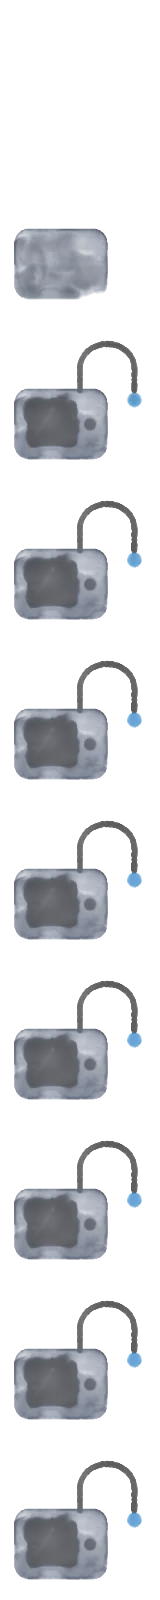
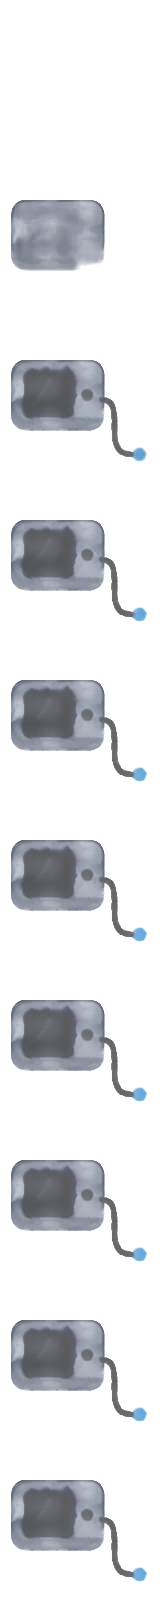
fix(watercolour): trail the pump's tube and calm the glucose gauge
The pump's tube looped over the top and read as a padlock shackle; it now
leaves the side and trails down to the infusion site. The gauge moves to
slate with a shadow needle just left of upright, since ember with a red
needle swung right read as a high reading on a neutral units step.

Claude-Session: https://claude.ai/code/session_01RKL3tmvxAfNJWyhXurBE4m

diff --git a/src/Web/packages/watercolour/src/api/assets.ts b/src/Web/packages/watercolour/src/api/assets.ts
@@ -66,7 +66,7 @@ export const DEFAULT_PALETTE: Record<string, PaletteId> = {
   'phone': 'slate',
   'cgm-sensor': 'water',
   'insulin-pump': 'slate',
-  'glucose-gauge': 'ember',
+  'glucose-gauge': 'slate',
   'ringing-bell': 'ember',
   'lucide-database': 'slate',
   'lucide-server': 'slate',

diff --git a/crates/nocturne-watercolour-infra/src/authoring/icons_devices.rs b/crates/nocturne-watercolour-infra/src/authoring/icons_devices.rs
@@ -95,8 +95,8 @@ pub(super) fn cgm_sensor(style: &Style, palette: &Palette) -> Scene {
     )
 }
 
-/// A body wider than it is tall with a screen in it, and a tube that loops
-/// up out of its top to the infusion site. The tube is what separates it
+/// A body wider than it is tall with a screen in it, and a tube that trails
+/// out of its side to the infusion site. The tube is what separates it
 /// from a phone or a pager, so it is drawn at every size.
 pub(super) fn insulin_pump(style: &Style, palette: &Palette) -> Scene {
     let frame = Frame::new(SQUARE);
@@ -104,13 +104,13 @@ pub(super) fn insulin_pump(style: &Style, palette: &Palette) -> Scene {
     let shadow = role(palette, PigmentRole::Shadow);
     let accent = role(palette, PigmentRole::Accent);
     let mut p = Painting::new(style.ticks(380));
-    let body = Shape::rounded_rect(0.1, 0.44, 0.66, 0.86, 0.08);
+    let body = Shape::rounded_rect(0.08, 0.26, 0.64, 0.68, 0.08);
     stencil_body(&mut p, &frame, style, &body, 0.012, base, 0.4, 0.0);
     p.glaze(0.36, 0.09).clear_mask(0.36);
-    let (top, bottom) = (0.53f32, 0.77);
+    let (top, bottom) = (0.35f32, 0.59);
     p.mask(
         0.38,
-        Shape::rounded_rect(0.18, 0.52, 0.47, 0.78, 0.03).polygon(&frame),
+        Shape::rounded_rect(0.16, 0.34, 0.45, 0.6, 0.03).polygon(&frame),
         0.006,
     );
     p.at(
@@ -127,14 +127,14 @@ pub(super) fn insulin_pump(style: &Style, palette: &Palette) -> Scene {
     if style.fine() {
         p.at(
             0.56,
-            lift(frame.line(0.23, 0.72, 0.33, 0.56), 0.025, 0.5, 0.6),
+            lift(frame.line(0.21, 0.54, 0.31, 0.38), 0.025, 0.5, 0.6),
         );
     }
     p.glaze(0.62, 0.08).clear_mask(0.62);
     p.at(
         0.62,
         brush(
-            vec![frame.pt(0.565, 0.65)],
+            vec![frame.pt(0.545, 0.47)],
             0.04,
             shadow,
             style.conc(0.85),
@@ -142,14 +142,19 @@ pub(super) fn insulin_pump(style: &Style, palette: &Palette) -> Scene {
             0.45,
         ),
     );
-    let (lx, rx, bend, rise) = (0.5f32, 0.84f32, 0.3f32, 0.15f32);
-    let (mid, half) = ((lx + rx) * 0.5, (rx - lx) * 0.5);
-    let tube: Vec<_> = std::iter::once((lx, 0.44))
-        .chain((0..=16).map(|i| {
-            let a = PI + i as f32 / 16.0 * PI;
-            (mid + half * a.cos(), bend + rise * a.sin())
-        }))
-        .chain(std::iter::once((rx, 0.44)))
+    // Out of the side and away in one bend, so it trails rather than
+    // closing over the top into a handle.
+    let [a, b, c, d] = [(0.64f32, 0.5f32), (0.8, 0.5), (0.62, 0.84), (0.82, 0.84)];
+    let tube: Vec<_> = (0..=16)
+        .map(|i| {
+            let t = i as f32 / 16.0;
+            let u = 1.0 - t;
+            let w = [u * u * u, 3.0 * u * u * t, 3.0 * u * t * t, t * t * t];
+            (
+                w[0] * a.0 + w[1] * b.0 + w[2] * c.0 + w[3] * d.0,
+                w[0] * a.1 + w[1] * b.1 + w[2] * c.1 + w[3] * d.1,
+            )
+        })
         .map(|(x, y)| frame.pt(x, y))
         .collect();
     p.at(
@@ -166,7 +171,7 @@ pub(super) fn insulin_pump(style: &Style, palette: &Palette) -> Scene {
     p.at(
         0.74,
         brush(
-            vec![frame.pt(0.84, 0.5)],
+            vec![frame.pt(0.87, 0.84)],
             if style.fine() { 0.05 } else { 0.06 },
             accent,
             style.conc(0.8),
@@ -186,12 +191,12 @@ pub(super) fn insulin_pump(style: &Style, palette: &Palette) -> Scene {
 
 /// A half dial with ticks round its arc and a needle from the pivot: a
 /// reading on a scale, for choosing the units glucose is shown in. The needle
-/// is drawn last and darkest so the eye lands on it.
+/// is drawn last and darkest so the eye lands on it, and sits just left of
+/// upright: swung right it reads as a high reading.
 pub(super) fn glucose_gauge(style: &Style, palette: &Palette) -> Scene {
     let frame = Frame::new(SQUARE);
     let base = role(palette, PigmentRole::BaseWash);
     let shadow = role(palette, PigmentRole::Shadow);
-    let accent = role(palette, PigmentRole::Accent);
     let (cx, cy, r) = (0.5f32, 0.68f32, 0.4f32);
     let mut p = Painting::new(style.ticks(360));
     let dial = Shape(
@@ -220,26 +225,27 @@ pub(super) fn glucose_gauge(style: &Style, palette: &Palette) -> Scene {
                 ),
                 if style.fine() { 0.02 } else { 0.03 },
                 shadow,
-                style.conc(0.6),
+                style.conc(0.4),
                 style.water(0.22),
                 0.5,
             ),
         );
     }
-    let needle = PI + PI * 0.7;
+    p.glaze(0.62, 0.08);
+    let needle = PI + PI * 0.42;
     p.at(
         0.64,
         tapered(
             frame.line(
                 cx,
                 cy,
-                cx + needle.cos() * r * 0.78,
-                cy + needle.sin() * r * 0.78,
+                cx + needle.cos() * r * 0.54,
+                cy + needle.sin() * r * 0.54,
             ),
-            (0.036, 0.014),
-            accent,
-            style.conc(1.0),
-            style.water(0.3),
+            (0.04, 0.016),
+            shadow,
+            style.conc(1.6),
+            style.water(0.18),
             0.4,
         ),
     );

diff --git a/crates/nocturne-watercolour-infra/tests/mask_hashes.rs b/crates/nocturne-watercolour-infra/tests/mask_hashes.rs
@@ -40,10 +40,10 @@ fn combined(detail: DetailLevel) -> u64 {
 #[test]
 fn catalogue_mask_hashes_match_the_snapshot() {
     let expected: [(&str, u64); 4] = [
-        ("small", 0xbe596d9970036ae1),
-        ("medium", 0x3704b09bf03a0019),
-        ("large", 0xabaf6167fc97ba2f),
-        ("extralarge", 0x398dcb235946c6fa),
+        ("small", 0x15a10a9ce5dbc7f9),
+        ("medium", 0xc21af120d2ad4845),
+        ("large", 0x3562e4c2097d4f2b),
+        ("extralarge", 0x76364a7572a1ca46),
     ];
     for detail in DetailLevel::ALL {
         let want = expected
